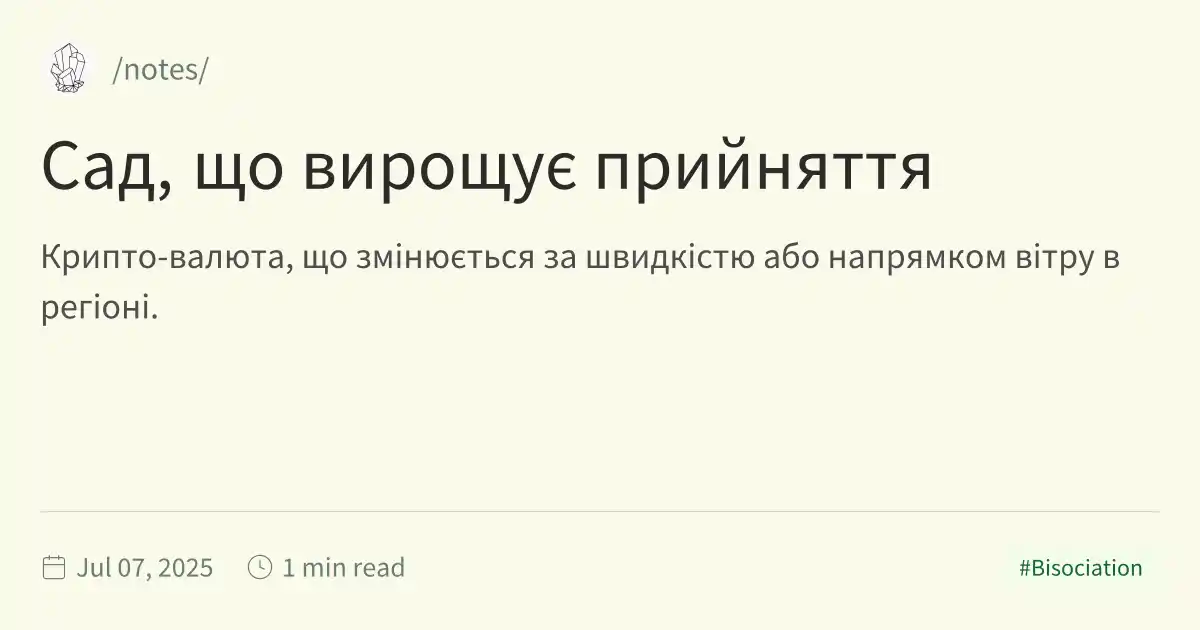
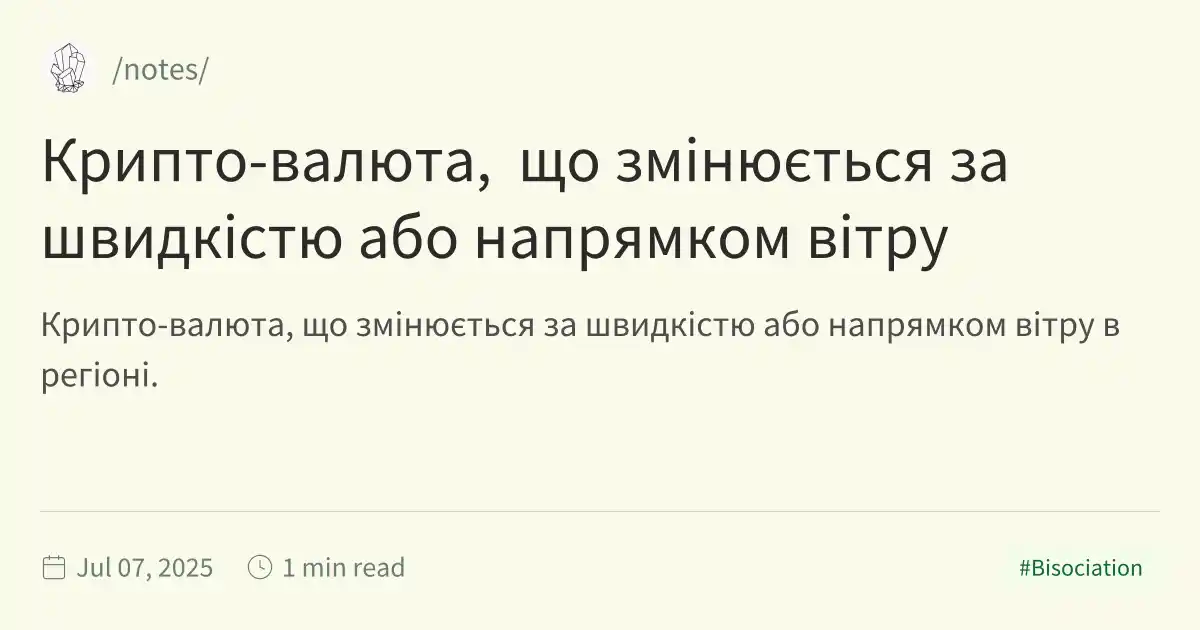
Deploying to gh-pages from @ andriiloginov/notes@c93259d04ff4f19bad46e3575e1f209e3e1de409 🚀

Changed region(s): [[0.0308, 0.2111, 0.9558, 0.5429], [0.0308, 0.573, 0.1233, 0.6333]]

diff --git a/B003.html b/B003.html
@@ -1,5 +1,5 @@
 <!DOCTYPE html>
-<html lang="en"><head><title>Сад, що вирощує прийняття</title><meta charset="utf-8"/><link rel="preconnect" href="https://fonts.googleapis.com"/><link rel="preconnect" href="https://fonts.gstatic.com"/><link rel="stylesheet" href="https://fonts.googleapis.com/css2?family=Schibsted Grotesk:wght@400;700&amp;family=Source Sans Pro:ital,wght@0,400;0,600;1,400;1,600&amp;family=IBM Plex Mono:wght@400;600&amp;display=swap"/><link rel="preconnect" href="https://cdnjs.cloudflare.com" crossorigin="anonymous"/><meta name="viewport" content="width=device-width, initial-scale=1.0"/><meta name="og:site_name" content="Notes"/><meta property="og:title" content="Сад, що вирощує прийняття"/><meta property="og:type" content="website"/><meta name="twitter:card" content="summary_large_image"/><meta name="twitter:title" content="Сад, що вирощує прийняття"/><meta name="twitter:description" content="Крипто-валюта, що змінюється за швидкістю або напрямком вітру в регіоні."/><meta property="og:description" content="Крипто-валюта, що змінюється за швидкістю або напрямком вітру в регіоні."/><meta property="og:image:alt" content="Крипто-валюта, що змінюється за швидкістю або напрямком вітру в регіоні."/><meta property="twitter:domain" content="/notes/"/><meta property="og:url" content="https://notes/B003"/><meta property="twitter:url" content="https://notes/B003"/><link rel="icon" href="./static/icon.png"/><meta name="description" content="Крипто-валюта, що змінюється за швидкістю або напрямком вітру в регіоні."/><meta name="generator" content="Quartz"/><link href="./index.css" rel="stylesheet" type="text/css" spa-preserve/><style>.expand-button {
+<html lang="en"><head><title>Крипто-валюта, що змінюється за швидкістю  або напрямком вітру</title><meta charset="utf-8"/><link rel="preconnect" href="https://fonts.googleapis.com"/><link rel="preconnect" href="https://fonts.gstatic.com"/><link rel="stylesheet" href="https://fonts.googleapis.com/css2?family=Schibsted Grotesk:wght@400;700&amp;family=Source Sans Pro:ital,wght@0,400;0,600;1,400;1,600&amp;family=IBM Plex Mono:wght@400;600&amp;display=swap"/><link rel="preconnect" href="https://cdnjs.cloudflare.com" crossorigin="anonymous"/><meta name="viewport" content="width=device-width, initial-scale=1.0"/><meta name="og:site_name" content="Notes"/><meta property="og:title" content="Крипто-валюта, що змінюється за швидкістю  або напрямком вітру"/><meta property="og:type" content="website"/><meta name="twitter:card" content="summary_large_image"/><meta name="twitter:title" content="Крипто-валюта, що змінюється за швидкістю  або напрямком вітру"/><meta name="twitter:description" content="Крипто-валюта, що змінюється за швидкістю або напрямком вітру в регіоні."/><meta property="og:description" content="Крипто-валюта, що змінюється за швидкістю або напрямком вітру в регіоні."/><meta property="og:image:alt" content="Крипто-валюта, що змінюється за швидкістю або напрямком вітру в регіоні."/><meta property="twitter:domain" content="/notes/"/><meta property="og:url" content="https://notes/B003"/><meta property="twitter:url" content="https://notes/B003"/><link rel="icon" href="./static/icon.png"/><meta name="description" content="Крипто-валюта, що змінюється за швидкістю або напрямком вітру в регіоні."/><meta name="generator" content="Quartz"/><link href="./index.css" rel="stylesheet" type="text/css" spa-preserve/><style>.expand-button {
   position: absolute;
   display: flex;
   float: right;
@@ -116,7 +116,7 @@ pre:hover > .expand-button {
   padding: 0 12px;
   font-size: 14px;
 }
[2 lines of base64/hex data omitted]
 <ul>
 <li>фіксує швидкість і напрямок вітру (анемометр + рукав),</li>
 <li>виводить курс локальної “вітрової валюти”,</li>

diff --git a/tags/Bisociation.html b/tags/Bisociation.html
@@ -116,6 +116,6 @@ pre:hover > .expand-button {
   padding: 0 12px;
   font-size: 14px;
 }
[2 lines of base64/hex data omitted]
 </script><script type="module">function f(i,e){if(!i)return;function r(o){o.target===this&&(o.preventDefault(),o.stopPropagation(),e())}function t(o){o.key.startsWith("Esc")&&(o.preventDefault(),e())}i?.addEventListener("click",r),window.addCleanup(()=>i?.removeEventListener("click",r)),document.addEventListener("keydown",t),window.addCleanup(()=>document.removeEventListener("keydown",t))}function y(i){for(;i.firstChild;)i.removeChild(i.firstChild)}var h=class{constructor(e,r){this.container=e;this.content=r;this.setupEventListeners(),this.setupNavigationControls(),this.resetTransform()}isDragging=!1;startPan={x:0,y:0};currentPan={x:0,y:0};scale=1;MIN_SCALE=.5;MAX_SCALE=3;cleanups=[];setupEventListeners(){let e=this.onMouseDown.bind(this),r=this.onMouseMove.bind(this),t=this.onMouseUp.bind(this),o=this.resetTransform.bind(this);this.container.addEventListener("mousedown",e),document.addEventListener("mousemove",r),document.addEventListener("mouseup",t),window.addEventListener("resize",o),this.cleanups.push(()=>this.container.removeEventListener("mousedown",e),()=>document.removeEventListener("mousemove",r),()=>document.removeEventListener("mouseup",t),()=>window.removeEventListener("resize",o))}cleanup(){for(let e of this.cleanups)e()}setupNavigationControls(){let e=document.createElement("div");e.className="mermaid-controls";let r=this.createButton("+",()=>this.zoom(.1)),t=this.createButton("-",()=>this.zoom(-.1)),o=this.createButton("Reset",()=>this.resetTransform());e.appendChild(t),e.appendChild(o),e.appendChild(r),this.container.appendChild(e)}createButton(e,r){let t=document.createElement("button");return t.textContent=e,t.className="mermaid-control-button",t.addEventListener("click",r),window.addCleanup(()=>t.removeEventListener("click",r)),t}onMouseDown(e){e.button===0&&(this.isDragging=!0,this.startPan={x:e.clientX-this.currentPan.x,y:e.clientY-this.currentPan.y},this.container.style.cursor="grabbing")}onMouseMove(e){this.isDragging&&(e.preventDefault(),this.currentPan={x:e.clientX-this.startPan.x,y:e.clientY-this.startPan.y},this.updateTransform())}onMouseUp(){this.isDragging=!1,this.container.style.cursor="grab"}zoom(e){let r=Math.min(Math.max(this.scale+e,this.MIN_SCALE),this.MAX_SCALE),t=this.content.getBoundingClientRect(),o=t.width/2,n=t.height/2,c=r-this.scale;this.currentPan.x-=o*c,this.currentPan.y-=n*c,this.scale=r,this.updateTransform()}updateTransform(){this.content.style.transform=`translate(${this.currentPan.x}px, ${this.currentPan.y}px) scale(${this.scale})`}resetTransform(){this.scale=1;let e=this.content.querySelector("svg");this.currentPan={x:e.getBoundingClientRect().width/2,y:e.getBoundingClientRect().height/2},this.updateTransform()}},C=["--secondary","--tertiary","--gray","--light","--lightgray","--highlight","--dark","--darkgray","--codeFont"],E;document.addEventListener("nav",async()=>{let e=document.querySelector(".center").querySelectorAll("code.mermaid");if(e.length===0)return;E||=await import("https://cdnjs.cloudflare.com/ajax/libs/mermaid/11.4.0/mermaid.esm.min.mjs");let r=E.default,t=new WeakMap;for(let n of e)t.set(n,n.innerText);async function o(){for(let s of e){s.removeAttribute("data-processed");let a=t.get(s);a&&(s.innerHTML=a)}let n=C.reduce((s,a)=>(s[a]=window.getComputedStyle(document.documentElement).getPropertyValue(a),s),{}),c=document.documentElement.getAttribute("saved-theme")==="dark";r.initialize({startOnLoad:!1,securityLevel:"loose",theme:c?"dark":"base",themeVariables:{fontFamily:n["--codeFont"],primaryColor:n["--light"],primaryTextColor:n["--darkgray"],primaryBorderColor:n["--tertiary"],lineColor:n["--darkgray"],secondaryColor:n["--secondary"],tertiaryColor:n["--tertiary"],clusterBkg:n["--light"],edgeLabelBackground:n["--highlight"]}}),await r.run({nodes:e})}await o(),document.addEventListener("themechange",o),window.addCleanup(()=>document.removeEventListener("themechange",o));for(let n=0;n<e.length;n++){let v=function(){let g=l.querySelector("#mermaid-space"),m=l.querySelector(".mermaid-content");if(!m)return;y(m);let w=c.querySelector("svg").cloneNode(!0);m.appendChild(w),l.classList.add("active"),g.style.cursor="grab",u=new h(g,m)},M=function(){l.classList.remove("active"),u?.cleanup(),u=null},c=e[n],s=c.parentElement,a=s.querySelector(".clipboard-button"),d=s.querySelector(".expand-button"),p=window.getComputedStyle(a),L=a.offsetWidth+parseFloat(p.marginLeft||"0")+parseFloat(p.marginRight||"0");d.style.right=`calc(${L}px + 0.3rem)`,s.prepend(d);let l=s.querySelector("#mermaid-container");if(!l)return;let u=null;d.addEventListener("click",v),f(l,M),window.addCleanup(()=>{u?.cleanup(),d.removeEventListener("click",v)})}});
 </script><script src="https://cdn.jsdelivr.net/npm/katex@0.16.11/dist/contrib/copy-tex.min.js" type="application/javascript"></script><script src="../postscript.js" type="module"></script></html>

diff --git a/tags/index.html b/tags/index.html
@@ -116,6 +116,6 @@ pre:hover > .expand-button {
   padding: 0 12px;
   font-size: 14px;
 }
[2 lines of base64/hex data omitted]
 </script><script type="module">function f(i,e){if(!i)return;function r(o){o.target===this&&(o.preventDefault(),o.stopPropagation(),e())}function t(o){o.key.startsWith("Esc")&&(o.preventDefault(),e())}i?.addEventListener("click",r),window.addCleanup(()=>i?.removeEventListener("click",r)),document.addEventListener("keydown",t),window.addCleanup(()=>document.removeEventListener("keydown",t))}function y(i){for(;i.firstChild;)i.removeChild(i.firstChild)}var h=class{constructor(e,r){this.container=e;this.content=r;this.setupEventListeners(),this.setupNavigationControls(),this.resetTransform()}isDragging=!1;startPan={x:0,y:0};currentPan={x:0,y:0};scale=1;MIN_SCALE=.5;MAX_SCALE=3;cleanups=[];setupEventListeners(){let e=this.onMouseDown.bind(this),r=this.onMouseMove.bind(this),t=this.onMouseUp.bind(this),o=this.resetTransform.bind(this);this.container.addEventListener("mousedown",e),document.addEventListener("mousemove",r),document.addEventListener("mouseup",t),window.addEventListener("resize",o),this.cleanups.push(()=>this.container.removeEventListener("mousedown",e),()=>document.removeEventListener("mousemove",r),()=>document.removeEventListener("mouseup",t),()=>window.removeEventListener("resize",o))}cleanup(){for(let e of this.cleanups)e()}setupNavigationControls(){let e=document.createElement("div");e.className="mermaid-controls";let r=this.createButton("+",()=>this.zoom(.1)),t=this.createButton("-",()=>this.zoom(-.1)),o=this.createButton("Reset",()=>this.resetTransform());e.appendChild(t),e.appendChild(o),e.appendChild(r),this.container.appendChild(e)}createButton(e,r){let t=document.createElement("button");return t.textContent=e,t.className="mermaid-control-button",t.addEventListener("click",r),window.addCleanup(()=>t.removeEventListener("click",r)),t}onMouseDown(e){e.button===0&&(this.isDragging=!0,this.startPan={x:e.clientX-this.currentPan.x,y:e.clientY-this.currentPan.y},this.container.style.cursor="grabbing")}onMouseMove(e){this.isDragging&&(e.preventDefault(),this.currentPan={x:e.clientX-this.startPan.x,y:e.clientY-this.startPan.y},this.updateTransform())}onMouseUp(){this.isDragging=!1,this.container.style.cursor="grab"}zoom(e){let r=Math.min(Math.max(this.scale+e,this.MIN_SCALE),this.MAX_SCALE),t=this.content.getBoundingClientRect(),o=t.width/2,n=t.height/2,c=r-this.scale;this.currentPan.x-=o*c,this.currentPan.y-=n*c,this.scale=r,this.updateTransform()}updateTransform(){this.content.style.transform=`translate(${this.currentPan.x}px, ${this.currentPan.y}px) scale(${this.scale})`}resetTransform(){this.scale=1;let e=this.content.querySelector("svg");this.currentPan={x:e.getBoundingClientRect().width/2,y:e.getBoundingClientRect().height/2},this.updateTransform()}},C=["--secondary","--tertiary","--gray","--light","--lightgray","--highlight","--dark","--darkgray","--codeFont"],E;document.addEventListener("nav",async()=>{let e=document.querySelector(".center").querySelectorAll("code.mermaid");if(e.length===0)return;E||=await import("https://cdnjs.cloudflare.com/ajax/libs/mermaid/11.4.0/mermaid.esm.min.mjs");let r=E.default,t=new WeakMap;for(let n of e)t.set(n,n.innerText);async function o(){for(let s of e){s.removeAttribute("data-processed");let a=t.get(s);a&&(s.innerHTML=a)}let n=C.reduce((s,a)=>(s[a]=window.getComputedStyle(document.documentElement).getPropertyValue(a),s),{}),c=document.documentElement.getAttribute("saved-theme")==="dark";r.initialize({startOnLoad:!1,securityLevel:"loose",theme:c?"dark":"base",themeVariables:{fontFamily:n["--codeFont"],primaryColor:n["--light"],primaryTextColor:n["--darkgray"],primaryBorderColor:n["--tertiary"],lineColor:n["--darkgray"],secondaryColor:n["--secondary"],tertiaryColor:n["--tertiary"],clusterBkg:n["--light"],edgeLabelBackground:n["--highlight"]}}),await r.run({nodes:e})}await o(),document.addEventListener("themechange",o),window.addCleanup(()=>document.removeEventListener("themechange",o));for(let n=0;n<e.length;n++){let v=function(){let g=l.querySelector("#mermaid-space"),m=l.querySelector(".mermaid-content");if(!m)return;y(m);let w=c.querySelector("svg").cloneNode(!0);m.appendChild(w),l.classList.add("active"),g.style.cursor="grab",u=new h(g,m)},M=function(){l.classList.remove("active"),u?.cleanup(),u=null},c=e[n],s=c.parentElement,a=s.querySelector(".clipboard-button"),d=s.querySelector(".expand-button"),p=window.getComputedStyle(a),L=a.offsetWidth+parseFloat(p.marginLeft||"0")+parseFloat(p.marginRight||"0");d.style.right=`calc(${L}px + 0.3rem)`,s.prepend(d);let l=s.querySelector("#mermaid-container");if(!l)return;let u=null;d.addEventListener("click",v),f(l,M),window.addCleanup(()=>{u?.cleanup(),d.removeEventListener("click",v)})}});
 </script><script src="https://cdn.jsdelivr.net/npm/katex@0.16.11/dist/contrib/copy-tex.min.js" type="application/javascript"></script><script src="../postscript.js" type="module"></script></html>